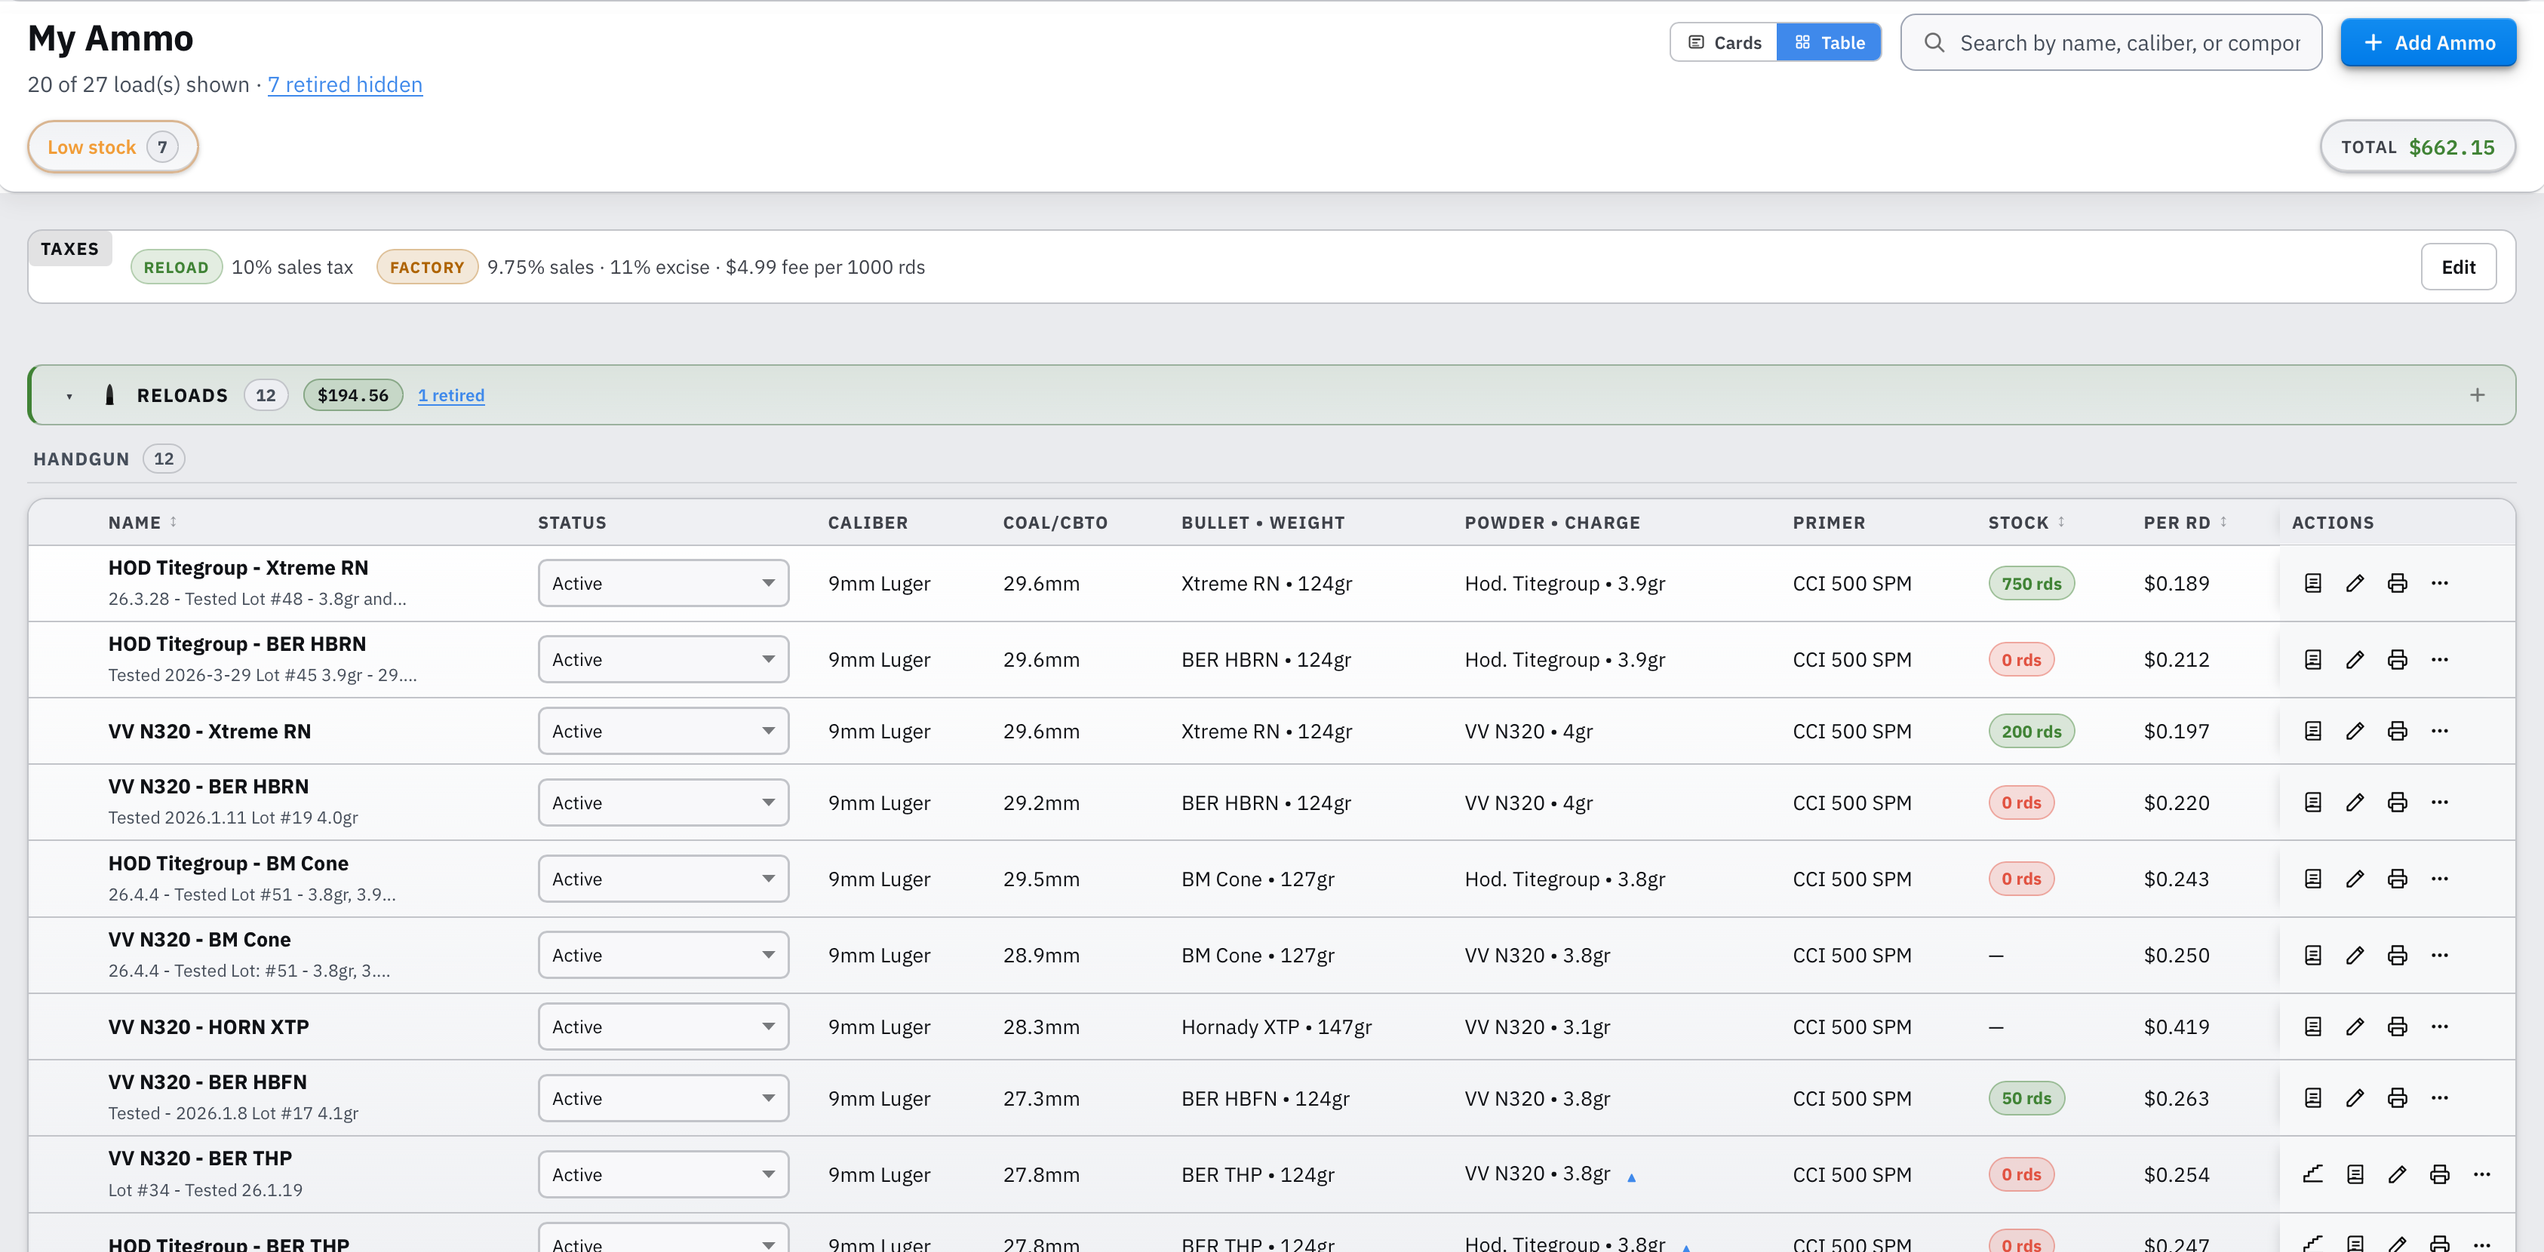
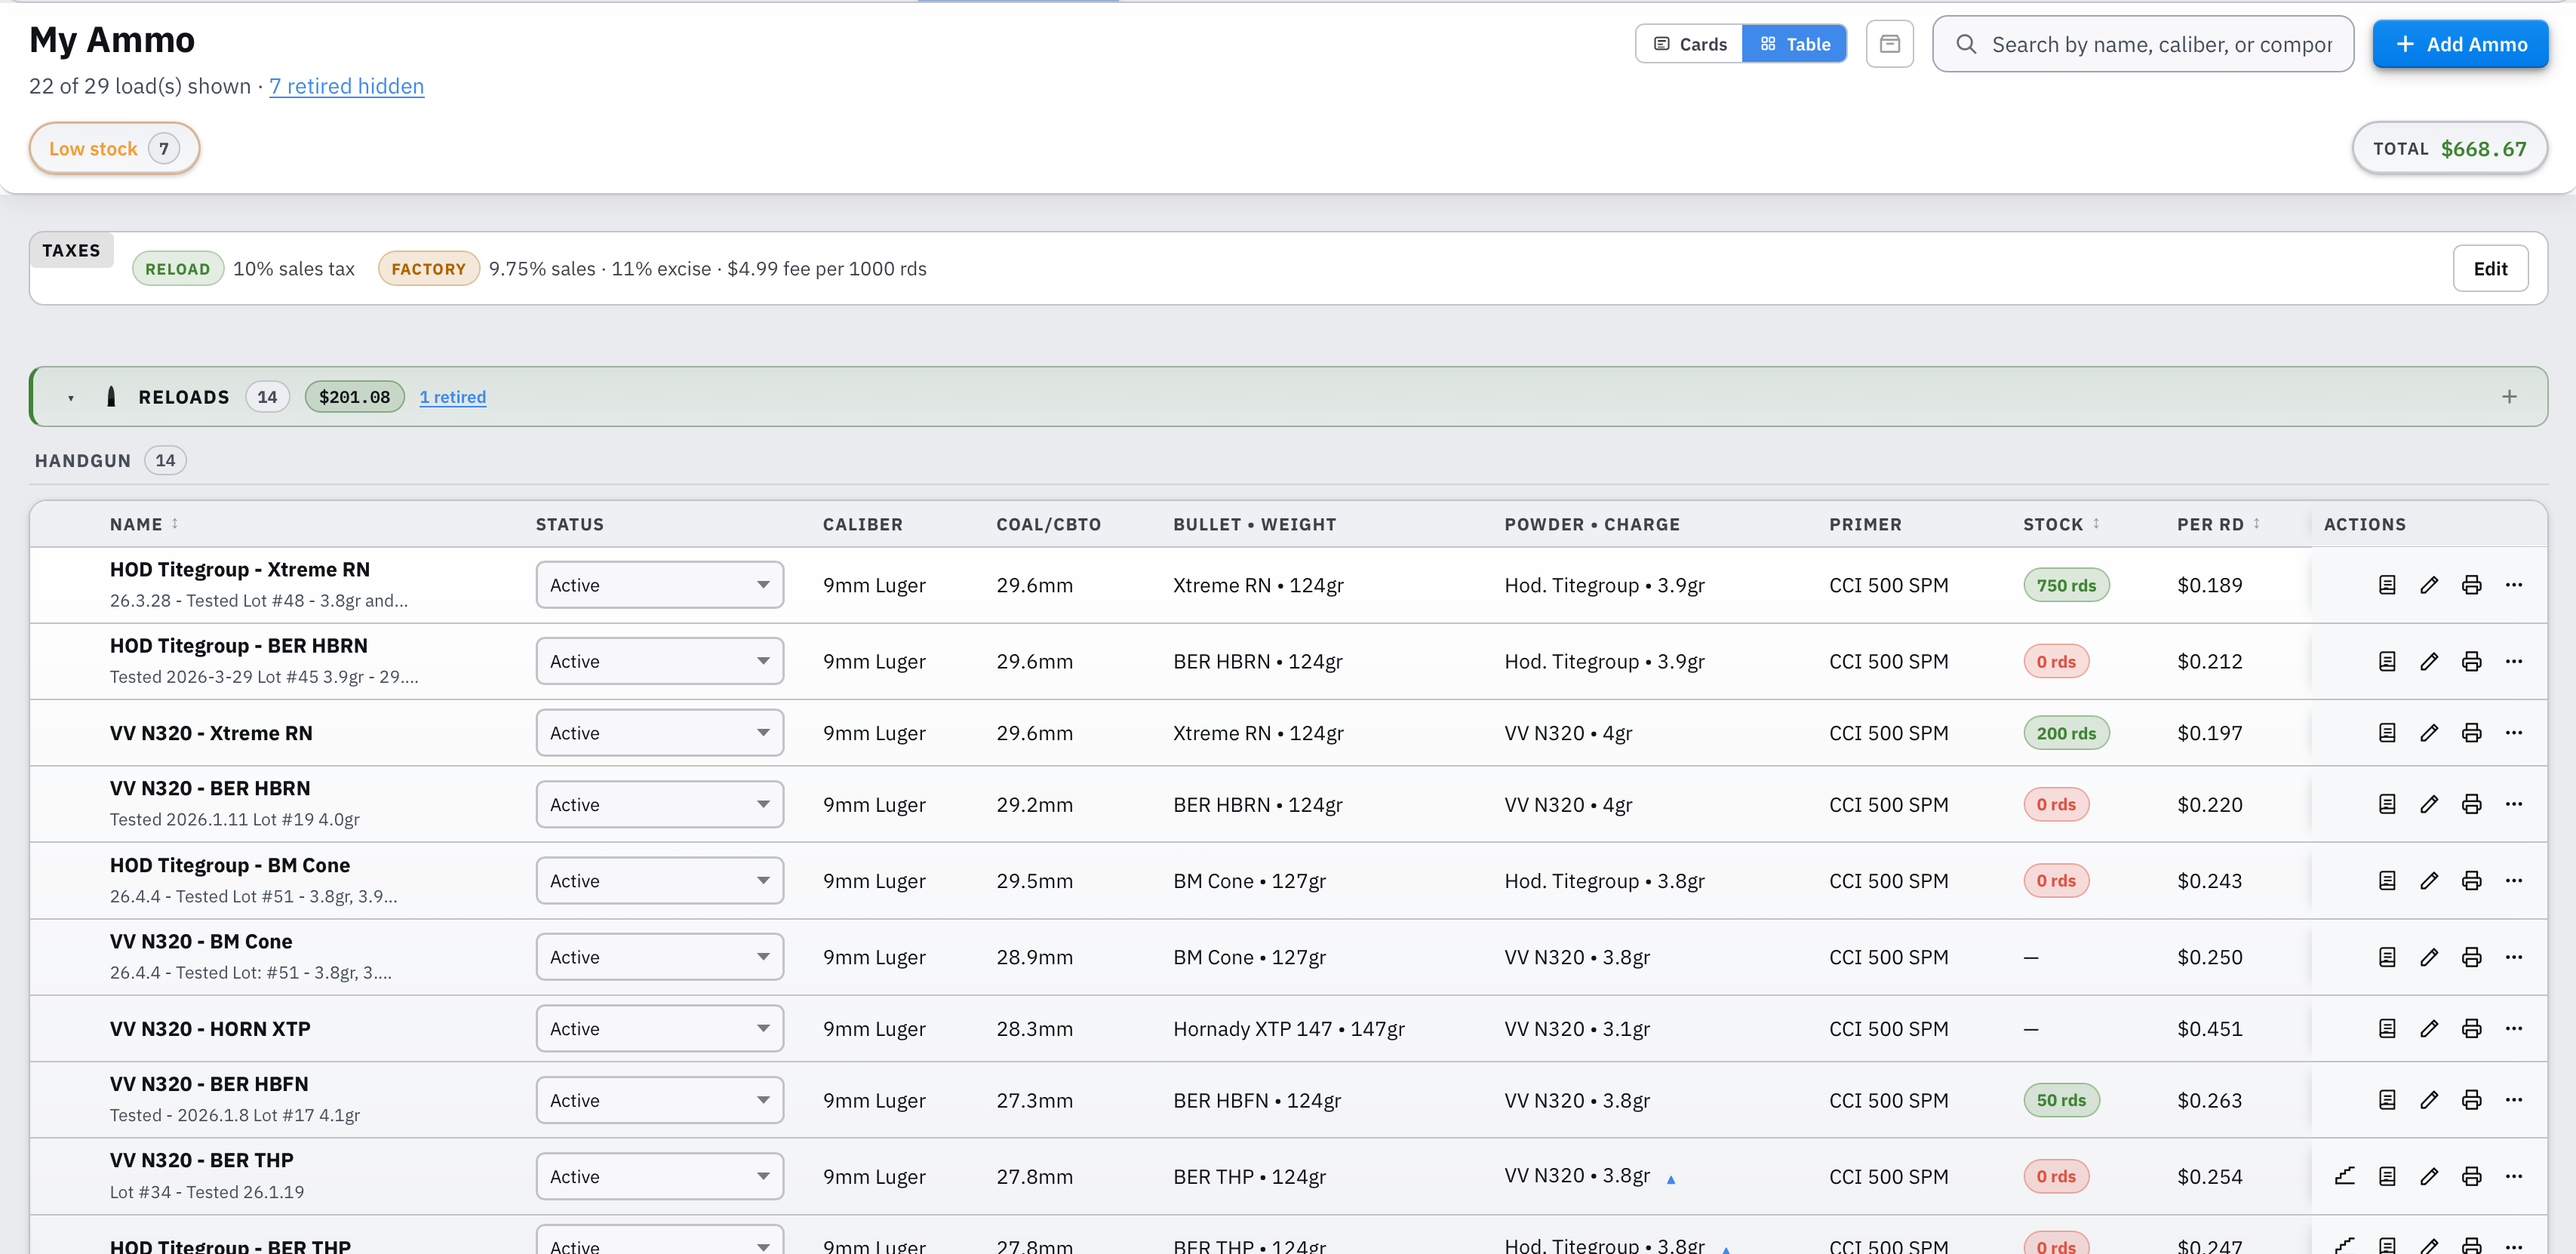
Updated user's guide for version 2.17.21

diff --git a/README.md b/README.md
@@ -1,4 +1,4 @@
-# Reloading Tracker 2.17.18: User Guide
+# Reloading Tracker 2.17.21: User Guide
 
 Reloading Tracker is your complete bench-to-range companion. It starts as a production log: define your loads, record every pressing session with a unique lot number, and print a label for every box on your shelf.
 
@@ -7,7 +7,7 @@ It grows with you from there. Keep one inventory of your components. Work up new
 If you also care about costs, the app covers that too. Compare your reloads with factory ammunition, track how close you are to paying off your equipment, and see a side-by-side cost breakdown for any mix of loads. This part is optional; plenty of reloaders just want the log and the data.
 
 
-> **DOWNLOAD:** A desktop version is available from the releases page: [**latest version**](https://github.com/fmalpartida/reloading-cost-calculator/releases/tag/v2.17.18). All previous versions are available [here](https://github.com/fmalpartida/reloading-cost-calculator/releases).
+> **DOWNLOAD:** A desktop version is available from the releases page: [**latest version**](https://github.com/fmalpartida/reloading-cost-calculator/releases/tag/v2.17.21). All previous versions are available [here](https://github.com/fmalpartida/reloading-cost-calculator/releases).
 
 
 Want to try it out first?
@@ -208,7 +208,7 @@ Click **Add Ammo** in the top-right corner, or the **+** button in the **Reloads
 - **Name**: identifies the cartridge. Required.
 - **Load Type**: Reload or Factory.
 - **Ammo Class**: Metallic Cartridge or Shotshell. Picking Shotshell switches the form to shotshell components, see [Shotshells](#26-shotshells).
-- **Category**: Handgun, Rifle, or Shotgun. Groups the entry in My Ammo and narrows the caliber list to that category. It fills in from the caliber until you pick one yourself.
+- **Category**: groups the entry in My Ammo and narrows the caliber list to that category. Cartridges are **Handgun** or **Rifle**, and the category fills in from the caliber until you pick one yourself. Shotshells are always **Shotgun**.
 - **Status**: the development state of the load. See [Load Status](#load-status) below.
 - **Caliber**: the cartridge designation (e.g. *9mm Luger*, *.308 Win*). This is added when defining the bullet.
 - **COAL**: cartridge overall length for this load. Printed on the lot label.
@@ -252,6 +252,7 @@ Click **Add Ammo** or the **+** button in the **Factory** section header. The Ed
 
 **Base Factory Price**
 - Price per box and rounds per box.
+- Rounds per box starts at the usual box size: 50 for handgun, 20 for rifle, and 25 for shotshells. It follows the category you pick until you type your own number.
 
 **Factory Taxes**
 - Sales tax (%), State excise tax (%).
@@ -295,6 +296,8 @@ When the **Reloads** or **Factory** section holds more than one caliber, a **cal
 Switch between **Cards** and **Table** with the buttons next to the search box. Table view is denser and easier to scan when you have many entries. Long bullet, powder and primer names end in **…**; hover to see the full name. The action buttons stay at the right edge while the table scrolls sideways. In card view, the sort menu picks both the field and the direction, for example **Price: low to high**. In table view, click a column header to sort.
 
 When any ammo is at or below its alert, or out of stock, a **Low stock** tag appears under the title. Click it to see only what you need to press or buy.
+
+To hide ammo with nothing in hand, click the **no-stock filter** button in the header (the empty box). It hides ammo whose rounds are all used, reloads with no Journal lots, and factory ammo with no boxes added. The count under the title then ends with an **"N without stock hidden"** link. Click it, or the button again, to show them. Everything shows by default, and the app remembers your choice.
 
 **Stock display**
 
@@ -722,7 +725,7 @@ You're asked to confirm before deleting.
 
 **Archiving firearms**
 
-Sold a rifle or put one away for good? Archive it to keep its record without cluttering the list. You'll be asked to confirm. Archived firearms are hidden from the list, the Range Log's firearm list, and the **Dedicated Firearm** list on brass. Past range sessions keep their firearm, and brass already dedicated to it stays linked.
+Sold a rifle or put one away for good? Archive it to keep its record without cluttering the list. You'll be asked to confirm. Archived firearms are hidden from the list, the Range Log's firearm list, the Target Generator's firearm list, and the **Dedicated Firearm** list on brass. Past range sessions keep their firearm, and brass already dedicated to it stays linked. A saved target sheet that already names an archived firearm keeps it.
 
 When anything is archived, the count under the page title ends with an **"N archived hidden"** link, and each caliber group shows **"N archived"**. Click either to show archived firearms, and click **hide archived** to hide them again. Archived cards are dimmed and tagged **ARCHIVED**; table rows get a red edge and an **Archived** tag. Click **Restore** to make one active again.
 
@@ -852,12 +855,14 @@ Entries with component lots show a tag icon in the Notes column. Hover over it t
 **Remaining Rounds column**
 The **Remaining** column shows how many rounds of each lot haven't been fired. It comes from the Range Log: each time you log rounds from a lot, the count goes down. When every round is accounted for, the lot is marked **Depleted**. You always know what's left on the shelf without keeping a separate count.
 
+Depleted lots are shown by default. Click the **depleted filter** button in the header (the empty box) to hide them. The page description then ends with an **"N depleted hidden"** link. Click it, or the button again, to show them. The app remembers your choice.
+
 **Archiving and restoring entries**
 Click **📦 Archive** to move a lot out of the active list without deleting it. Archived entries stay in your history and still count in the Journal statistics, but their unfired rounds no longer count toward the load's stock in My Ammo. When any entries are archived, the page description ends with an **"N archived hidden"** link. Click it (or the archive filter button in the header) to show them, and click **hide archived** to hide them again. Archived rows are dimmed and tagged **Archived**. Click **Restore** on a row to make it active again.
 
 Use the **Search** box to filter entries by lot number, date, load name, caliber, brass, notes, or component lot. For example, search a primer lot code to list every batch pressed with it.
 
-When your journal holds more than one caliber, a **caliber filter** appears next to the search box. Pick a caliber to show only its lots, or **All calibers** to clear it. It works with search and the starred and archived filters, and **Select all** for batch printing only picks the entries shown.
+When your journal holds more than one caliber, a **caliber filter** appears next to the search box. Pick a caliber to show only its lots, or **All calibers** to clear it. It works with search and the starred, depleted, and archived filters, and **Select all** for batch printing only picks the entries shown.
 
 **On phones and tablets**
 On narrow screens, each entry stacks its lot, date, load, quantity, remaining rounds, and notes, with the action buttons alongside. Charge, COAL/CBTO, brass, and fired count are hidden; open the entry to see them.
@@ -877,9 +882,11 @@ You can review and change every field before printing:
 
 You can also print from any card in **My Ammo** with its print button. LOT and QTY are then left blank.
 
+While a load has an open charge workup (see [2.5](#25-charge-workup-load-development)), labels printed from My Ammo leave the charge blank, so you can write it in. Labels printed from the Journal always show the lot's charge.
+
 ![Screenshot: print label dialog showing LOT and QTY pre-filled from a journal entry.](./images/label-print.png)
 
-To print several labels at once, tick the checkbox at the start of each journal row you want, then click **Print N Labels** at the top of the list. The dialog previews each selected label, with changed values in blue. You can print several copies of each.
+To print several labels at once, tick the checkbox at the start of each journal row you want, then click **Print N Labels** at the top of the list. The dialog previews each selected label on the left, with changed values in blue. On the right, pick the number of copies of each, the fields to print, and where to start on the sheet.
 
 ### 5.4 Journal Statistics
 
@@ -1371,7 +1378,7 @@ For each ring, configure:
 
 | Option | Description |
 |--------|-------------|
-| **Color** | Black, white, red, orange, yellow, green, blue, grey, or silver. Mix colours for high-contrast scoring zones. |
+| **Color** | Black, white, red, orange, yellow, green, blue, grey, light grey, or silver. Mix colours for high-contrast scoring zones. |
 | **Ring lines** | Turn on to draw a thin line (0.5 mm) between rings, in a colour you pick from the same palette. It separates rings of the same colour and makes scoring edges easier to read. The target's outer edge has no line. |
 | **Overall diameter** | The outer diameter of the outermost ring (in inches or mm). |
 | **Ring step** | The gap between ring edges, which sets how wide each scoring band is. |
@@ -1405,7 +1412,7 @@ Firearm and Shots share a row, right above Distance and Unit.
 
 Group size, average velocity, and SD are **not** entered here, since you won't know them before shooting. They print as blank labelled fields (e.g. *GRP:*, *VEL:*, *SD:*) for you to fill in at the range.
 
-The **Load** and **Gun** toggles control which part of the block prints, so you can print the gun and result fields without the load details, or the other way round. Text that's too long, like a long firearm name, is shortened with an ellipsis.
+The **Load** and **Gun** toggles control which part of the block prints, so you can print the gun and result fields without the load details, or the other way round. A **DATE** field to fill in prints either way. Text that's too long, like a long firearm name, is shortened with an ellipsis.
 
 **Filling multiple targets quickly**
 
@@ -1438,8 +1445,8 @@ Click the card to reopen the sheet in the designer.
 Click **Print** on a sheet card, or in the designer, to open the print dialog.
 
 The dialog shows:
-- Sheet name, page size, layout (columns × rows), and shape
-- A preview of the first target as it will appear on the printed page
+- Sheet name, page size, orientation, number of targets, and shape
+- A preview of the whole page on white paper, with every target where it will print
 
 Click **Print** to send it to your printer. The printout matches the designer preview exactly.
 
@@ -1548,7 +1555,7 @@ With entries selected, you'll see:
 Use the **Search** box above the selection list to filter by name, caliber, type, or component.
 
 ![Screenshot: Cost Comparison: bar chart and difference table](./images/cost-comparison.png)
-<!-- IMAGE MAY NEED UPDATING: the average card is now a per-caliber table (2.17.5) -->
+
 ![Screenshot: Cost Comparison: difference table](./images/cost-break-down.png)
 
 ---
